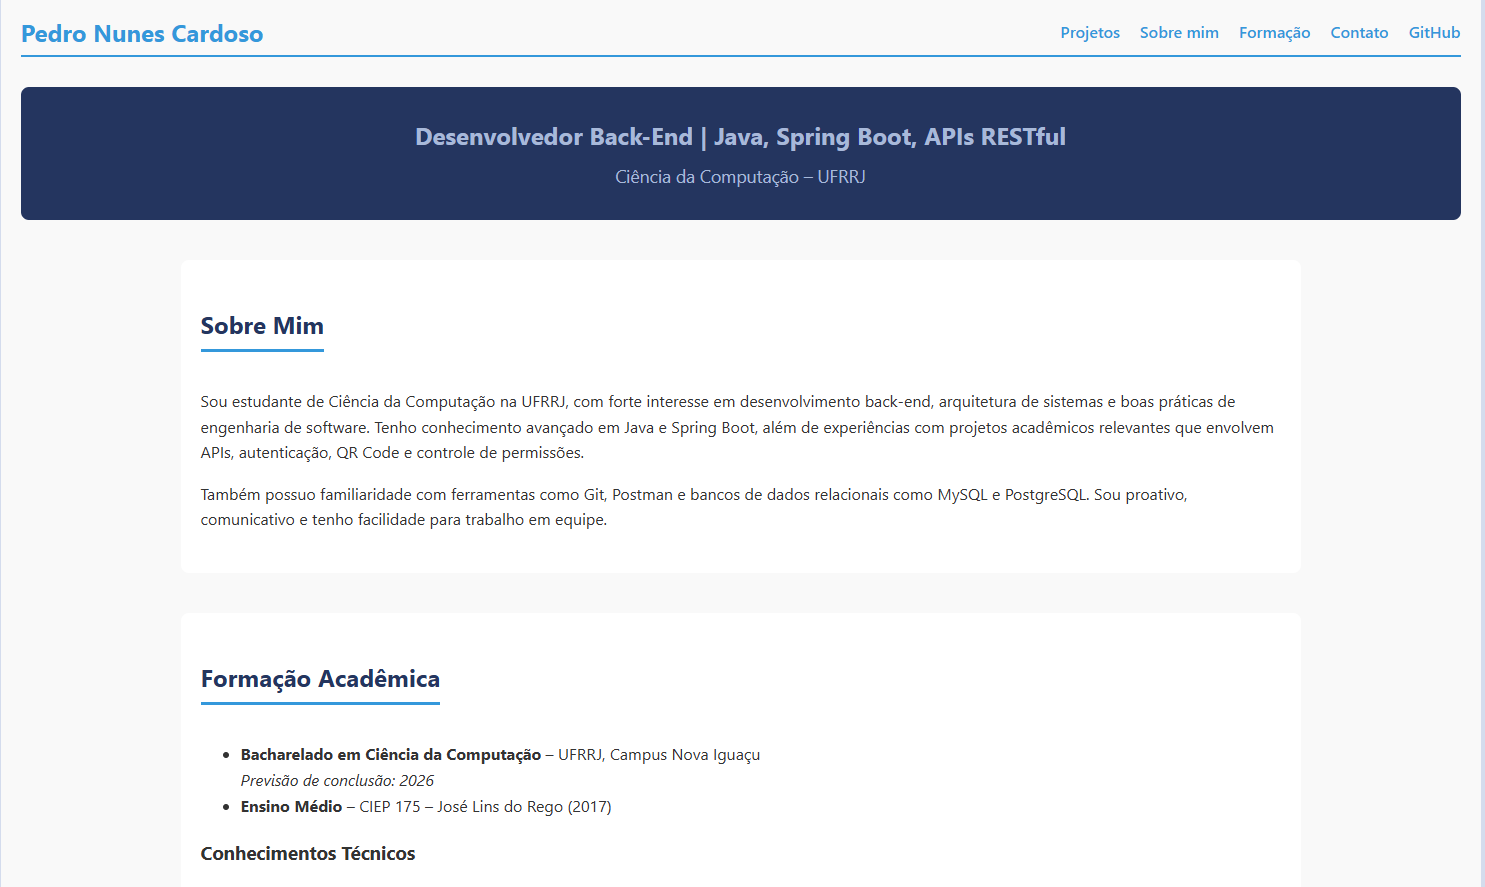
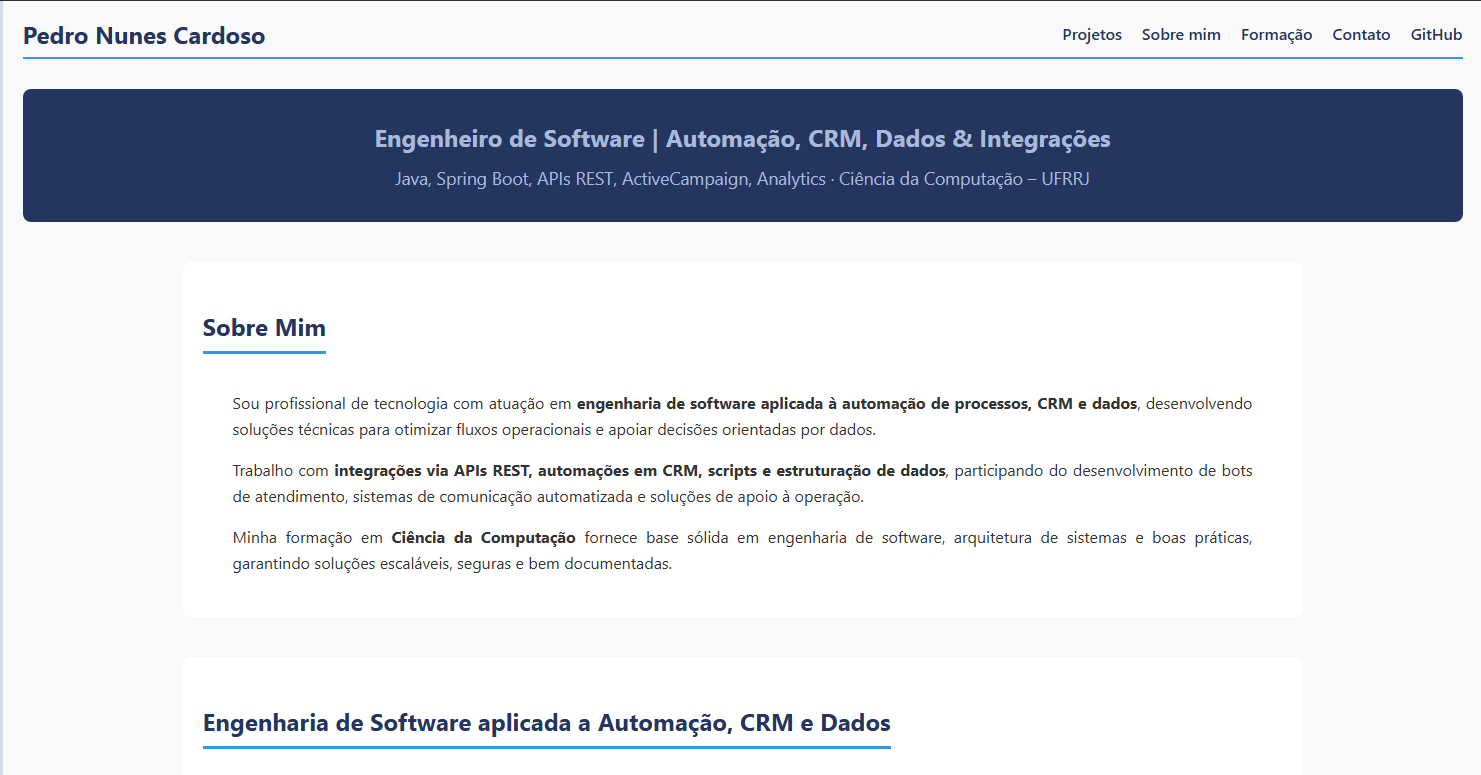
Atualização estilização

diff --git a/index.html b/index.html
@@ -4,20 +4,33 @@
     <meta charset="UTF-8" />
     <meta name="viewport" content="width=device-width, initial-scale=1.0" />
 
-    <title>Pedro Nunes | Desenvolvedor Back-End</title>
+    <title>Pedro Nunes | Engenheiro de Software</title>
 
-    <link rel="icon" type="image/png" href="/p.png" />
+    <link rel="icon" type="image/png" href="/p1.png" />
 
-    <meta name="description" content="Portfólio de Pedro Nunes - Desenvolvedor Back-End com foco em Java, Spring Boot, APIs REST e arquitetura de sistemas." />
+    <meta
+            name="description"
+            content="Portfólio de Pedro Nunes — Engenheiro de Software com foco em automação, CRM, dados e desenvolvimento back-end com Java e Spring Boot."
+    />
     <meta name="author" content="Pedro Nunes" />
 
-    <!-- Open Graph para redes sociais -->
-    <meta property="og:title" content="Pedro Nunes | Desenvolvedor Back-End" />
-    <meta property="og:description" content="Portfólio com projetos, formação e experiências." />
-    <meta property="og:image" content="/images/preview.png" />
+    <!-- Open Graph -->
+    <meta property="og:title" content="Pedro Nunes | Engenheiro de Software" />
+    <meta
+            property="og:description"
+            content="Engenharia de Software aplicada a automação, CRM, dados e back-end."
+    />
+    <meta
+            property="og:image"
+            content="https://pedronunescardoso.vercel.app/images/preview.png"
+    />
     <meta property="og:type" content="website" />
-    <meta property="og:url" content="#" />
+    <meta
+            property="og:url"
+            content="https://pedronunescardoso.vercel.app/"
+    />
 </head>
+
 <body>
 <div id="root"></div>
 <script type="module" src="/src/jsx/main.jsx"></script>
